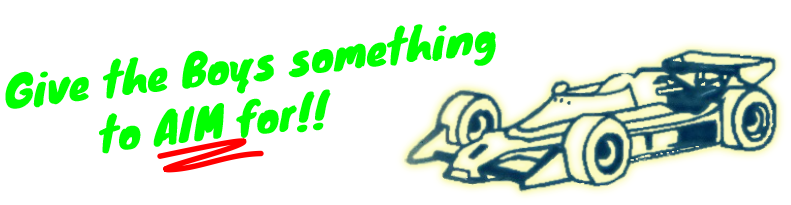
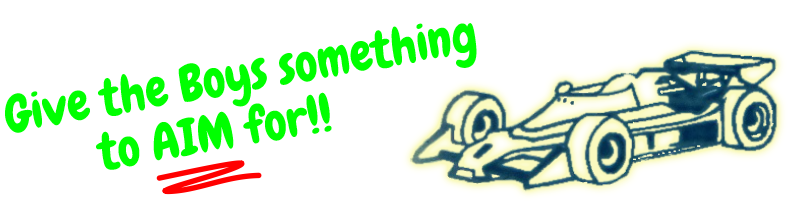
wee - jo's changes and add analytics

Changed region(s): [[0.0, 0.1176, 0.6372, 0.9706], [0.4855, 0.2353, 1.0, 0.9412]]

diff --git a/www/yii/weetarget.co.uk/scripts/jelly/header.css b/www/yii/weetarget.co.uk/scripts/jelly/header.css
@@ -20,7 +20,7 @@ a:active { text-decoration: none; color:#00adc9 }
 
 
 h1 {	font-family: 'Chewy', Calibri, sans-serif !important;
-	color: #00dc00;
+	color: #00ef00;
 	font-size: 32px;
 	font-weight: 400;
 	text-shadow: 1px 1px 3px #d6d6d6;}
@@ -33,7 +33,7 @@ h2 {	font-family: 'Muli', Calibri, sans-serif !important;
 
 
 h3 {	font-family: 'Chewy', Calibri, sans-serif !important;
-	color: #00dc00;
+	color: #00ff00;
 	font-size: 24px;
 	font-weight: 400;
 	text-shadow: 1px 1px 3px #d6d6d6;}

diff --git a/www/yii/weetarget.co.uk/protected/config/main.php b/www/yii/weetarget.co.uk/protected/config/main.php
@@ -104,11 +104,11 @@ return array(
 		'checkoutEmail'=>'tristen@weetarget.co.uk',
 		'checkoutName'=>'Wee Target',
 		// Test gateway
-		'checkoutGatewayUser'=>'WIREFL-5188100',
-		'checkoutGatewayPassword'=>'391F3GWBZ0',
+		//'checkoutGatewayUser'=>'WIREFL-5188100',
+		//'checkoutGatewayPassword'=>'391F3GWBZ0',
 		// Live gateway
-		//'checkoutGatewayUser'=>'xxxxx',
-		//'checkoutGatewayPassword'=>'xxxxx',
+		'checkoutGatewayUser'=>'WIREFL-5578222',
+		'checkoutGatewayPassword'=>'Sbyzek538949',
 		'jellyRoot' => '/scripts/jelly/',
 		'sid' => '1uphfbav981r4kr2q2sum63s62',
 	),

diff --git a/www/yii/weetarget.co.uk/protected/backend/views/site/index.php b/www/yii/weetarget.co.uk/protected/backend/views/site/index.php
@@ -4,7 +4,11 @@
 $this->pageTitle=Yii::app()->name;
 ?>
 
-<h1>Welcome to <i><?php echo CHtml::encode(Yii::app()->name); ?></i></h1>
+<h2>Welcome to <i><?php echo CHtml::encode(Yii::app()->name); ?></i></h2>
 
-<p>Please select from the menu options above</p>
+<br/>
+
+<?php if (!Yii::app()->user->isGuest)
+echo '<iframe src="http://weetarget.co.uk:ghwu73c9e@www.weetarget.co.uk/awstats/awstats.pl?framename=mainright" height=5500px width=100%></iframe>';
+?>
 
